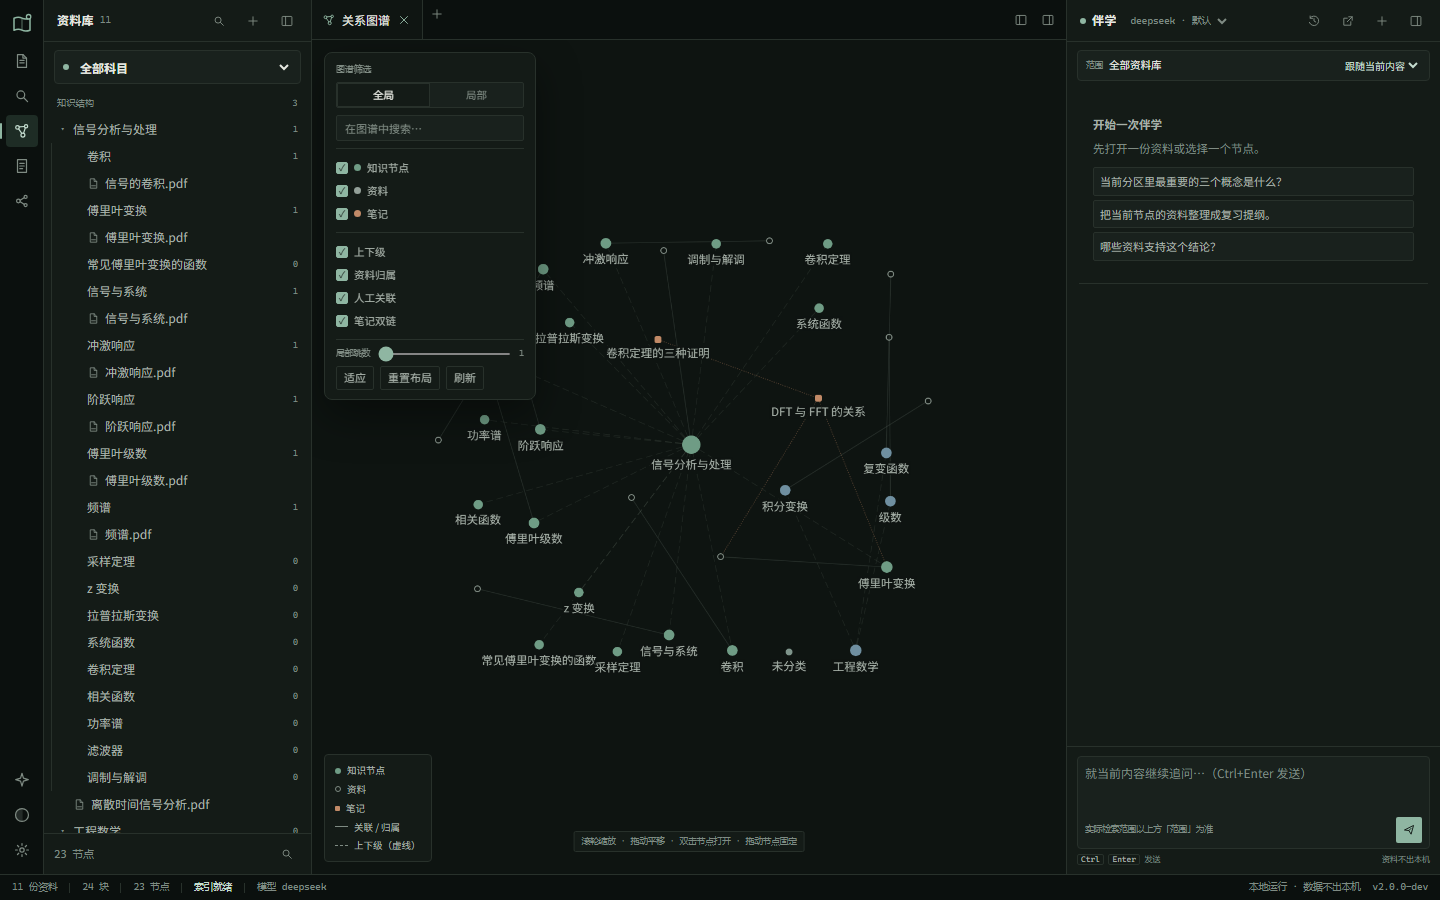
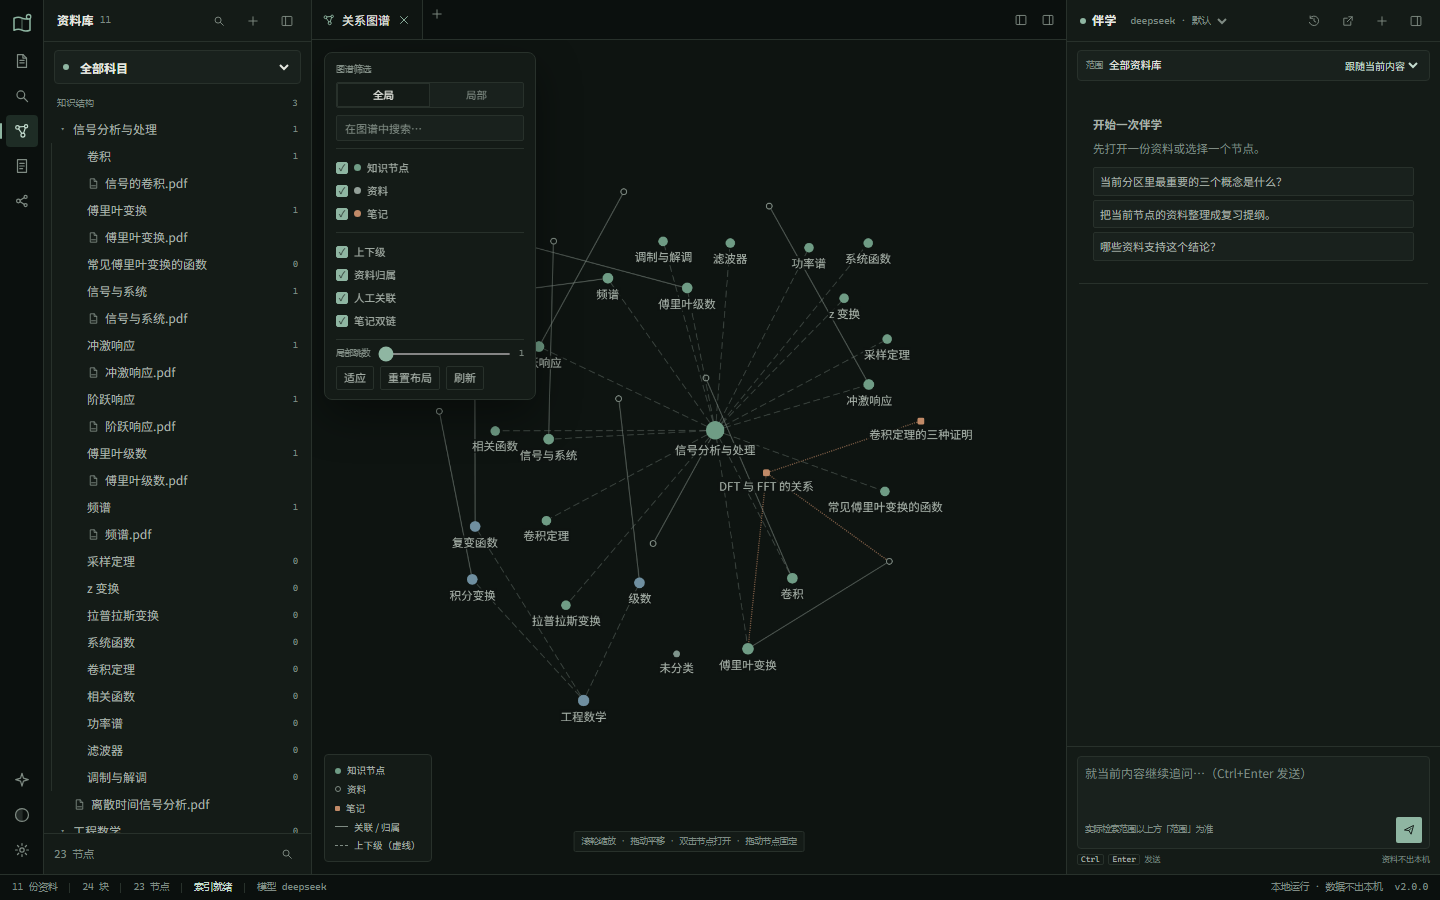
fix(graph): keep edges visible, faster zoom and boosted node drag

diff --git a/doclib/web/static/app/views.js b/doclib/web/static/app/views.js
@@ -209,7 +209,7 @@ async function renderGraph(tab, host, state, actions) {
     cy = window.cytoscape({
       container: document.getElementById('cy'),
       elements,
-      wheelSensitivity: 0.18,
+      wheelSensitivity: 0.52,
       minZoom: 0.05,
       maxZoom: 3,
       style: [
@@ -229,15 +229,16 @@ async function renderGraph(tab, host, state, actions) {
         { selector: 'node.selected', style: { 'border-width': 3, 'border-color': v('--accent'), 'overlay-color': v('--accent'), 'overlay-opacity': .12, 'overlay-padding': 5 } },
         { selector: 'node.dim', style: { opacity: .25, 'text-opacity': 0 } },
         { selector: 'edge', style: {
-          width: .8, 'line-color': v('--ink-3'), opacity: .18, 'curve-style': 'bezier',
+          width: 1.0, 'line-color': v('--ink-3'), opacity: .46, 'curve-style': 'bezier',
           'target-arrow-shape': 'none', 'arrow-scale': .6,
         }},
-        { selector: 'edge[rel="hierarchy"]', style: { 'line-style': 'dashed', opacity: .14 } },
-        { selector: 'edge[rel="mount"]', style: { opacity: .20 } },
-        { selector: 'edge[rel="manual"]', style: { 'line-color': v('--accent'), opacity: .36, width: 1.1 } },
-        { selector: 'edge[rel="wikilink"]', style: { 'line-style': 'dotted', 'line-color': v('--cue'), opacity: .34 } },
-        { selector: 'edge.hot', style: { opacity: .65, width: 1.2 } },
-        { selector: 'edge.dim', style: { opacity: .05 } },
+        { selector: 'edge[rel="hierarchy"]', style: { 'line-style': 'dashed', opacity: .38, width: .9 } },
+        { selector: 'edge[rel="mount"]', style: { opacity: .54, width: 1.0 } },
+        { selector: 'edge[rel="manual"]', style: { 'line-color': v('--accent'), opacity: .72, width: 1.35 } },
+        { selector: 'edge[rel="wikilink"]', style: { 'line-style': 'dotted', 'line-color': v('--cue'), opacity: .62, width: 1.1 } },
+        { selector: 'edge[rel="ai"]', style: { 'line-style': 'dashed', 'line-color': v('--accent-2'), opacity: .44, width: 1.0 } },
+        { selector: 'edge.hot', style: { opacity: .92, width: 1.9 } },
+        { selector: 'edge.dim', style: { opacity: .08 } },
       ],
       layout: { name: 'preset' },
     });
@@ -259,6 +260,23 @@ async function renderGraph(tab, host, state, actions) {
     cy.on('tap', evt => { if (evt.target === cy) clearSelection(); });
     cy.on('mouseover', 'node', evt => hoverNode(evt.target));
     cy.on('mouseout', 'node', () => { cy.nodes().removeClass('dim'); cy.edges().removeClass('dim hot'); });
+    // 节点拖动默认 1:1；按用户要求给一点“跟手加速”，仍以鼠标起点为锚，避免漂移
+    cy.on('grab', 'node', evt => {
+      const n = evt.target;
+      n.scratch('_doclibDrag', {
+        x: n.position('x'), y: n.position('y'),
+        mx: evt.position.x, my: evt.position.y,
+      });
+    });
+    cy.on('drag', 'node', evt => {
+      const s = evt.target.scratch('_doclibDrag');
+      if (!s) return;
+      const f = 1.3;
+      evt.target.position({
+        x: s.x + (evt.position.x - s.mx) * f,
+        y: s.y + (evt.position.y - s.my) * f,
+      });
+    });
     cy.on('dragfree', 'node', evt => {
       const n = evt.target;
       const positions = {};

diff --git a/docs/v2/TEST_REPORT.md b/docs/v2/TEST_REPORT.md
@@ -32,12 +32,13 @@
 - `DocLib.spec` PyInstaller onedir 构建成功。
 - 原生窗口冒烟：`DocLib.exe` 启动后主窗口标题 `DocLib 2.0 · 本地知识工作台`，进程响应；加载 `/api/v2/bootstrap`、`/api/v2/graph` 等 200。
 - 打包 `DocLib.exe --browser --no-browser --port 8898` 冒烟：`/api/v2/bootstrap`、`/`、`/app/main.js`（MIME）、`/api/v2/workspace` 均 200；产物 56.7 MB（未含数据）。
[2 lines of base64/hex data omitted]
 - 未做：WebView2 原生窗口的自动点击回归（只做启动/加载冒烟）；PDF 原生预览视觉回归（无 PDF 样例）。
 
 ## 3. 手工 E2E（Playwright + Edge，1440×900）
 
 - 图谱：28→36 节点（两科目）渲染；节点点击信息面板；局部图谱打开中央标签；树同步高亮。
+- 图谱交互修正实测（Edge/Playwright）：层级/挂载/wikilink 边常显 opacity `.38/.54/.62`（不再依赖 hover）；`cy.options().wheelSensitivity=0.52`；拖动节点 60×40px 时位置变化 67.8×45.2（缩放 1.15 下正好 1.3×），截图 01/07 已更新。
 - 阅读：Markdown 文档标题/正文/TOC；目录按钮；PDF 分支未测；引用片段定位与 CSS Highlight。
 - AI：文档上下文只检索该文档（请求体 `context.kind=document`）；选中文字请求 `context.kind=selection` 且首条来源 `selection`；全部资料库 `context.kind=all`；历史会话恢复；引用点击回原文。
 - 笔记：新建→自动保存→刷新恢复；反链 3 条；`[[doc]]`/`[[node]]` 预览链接；Markdown 导入；Word 问答导出。

diff --git a/CHANGELOG.md b/CHANGELOG.md
@@ -10,6 +10,7 @@ Obsidian 式 AI 知识工作台升级：
 - 迁移与持久化：`0006_graph_context`、事务迁移 + 迁移前备份 + 失败回滚、`schema_version=0007`、`workspace.json` 原子持久化/损坏回退
 - 旧功能保留：分区/全部科目、导入、搜索、模型/密钥、Word 问答导出、导图嵌入、备份/回收站/重建索引、安全校验
 - 安全：CSP、XFO SAMEORIGIN（PDF 需要）、Host/Origin/JSON 校验、Range、静态 404/MIME
+- 图谱交互修正：层级/挂载/手工/wikilink/AI 连边常显（不再只在 hover 时出现）；滚轮缩放灵敏度 0.18→0.52；节点拖动 1.3× 跟手，仍以抓取点为锚，拖动结束位置正常保存
 - 测试：13 个 Python 测试全过（含 context/migrations/workspace/http_v2）；Playwright E2E 覆盖图谱/阅读/AI/选文/引用/笔记/导入/主题/窄窗
 - 文档：`docs/v2/PLAN|DESIGN_SYSTEM|ARCHITECTURE|PROGRESS|DECISIONS`、截图矩阵、第三方许可
 

diff --git a/docs/v2/PROGRESS.md b/docs/v2/PROGRESS.md
@@ -73,6 +73,7 @@
 - 审计：demo fixture 58/60；剩 `GET /api/search` 对“卷积定理”在 demo 语料无命中（v2 统一搜索已手工通过）与 audit 的 tree/indent 前置条件。
 - 构建：`DocLib.spec` + PyInstaller onedir，`dist-v2.0/DocLib` 56.7MB；原生 WebView2 窗口冒烟 `MainWindowTitle='DocLib 2.0 · 本地知识工作台'`；打包 exe 的 `--browser` 模式 API/静态资源 200。
 - ZIP：`dist-v2.0/DocLib-2.0.0-win64.zip`，33.1MB，SHA256 见 `dist-v2.0/SHA256SUMS.txt`；无 `data/`，保留 `使用说明.txt`/`解除锁定.bat`。
+- 交互修正（用户反馈）：图谱连边常显；`wheelSensitivity` 0.18→0.52；节点拖动 1.3× 跟手。截图 01 已更新，ZIP 重新构建。
 - 截图：`docs/v2/screenshots/01..13`；视觉评分见 `VISUAL_AUDIT.md`；验收见 `TEST_REPORT.md`。
 - 未 push；旧 `dist/DocLib` 未被覆盖。
 
